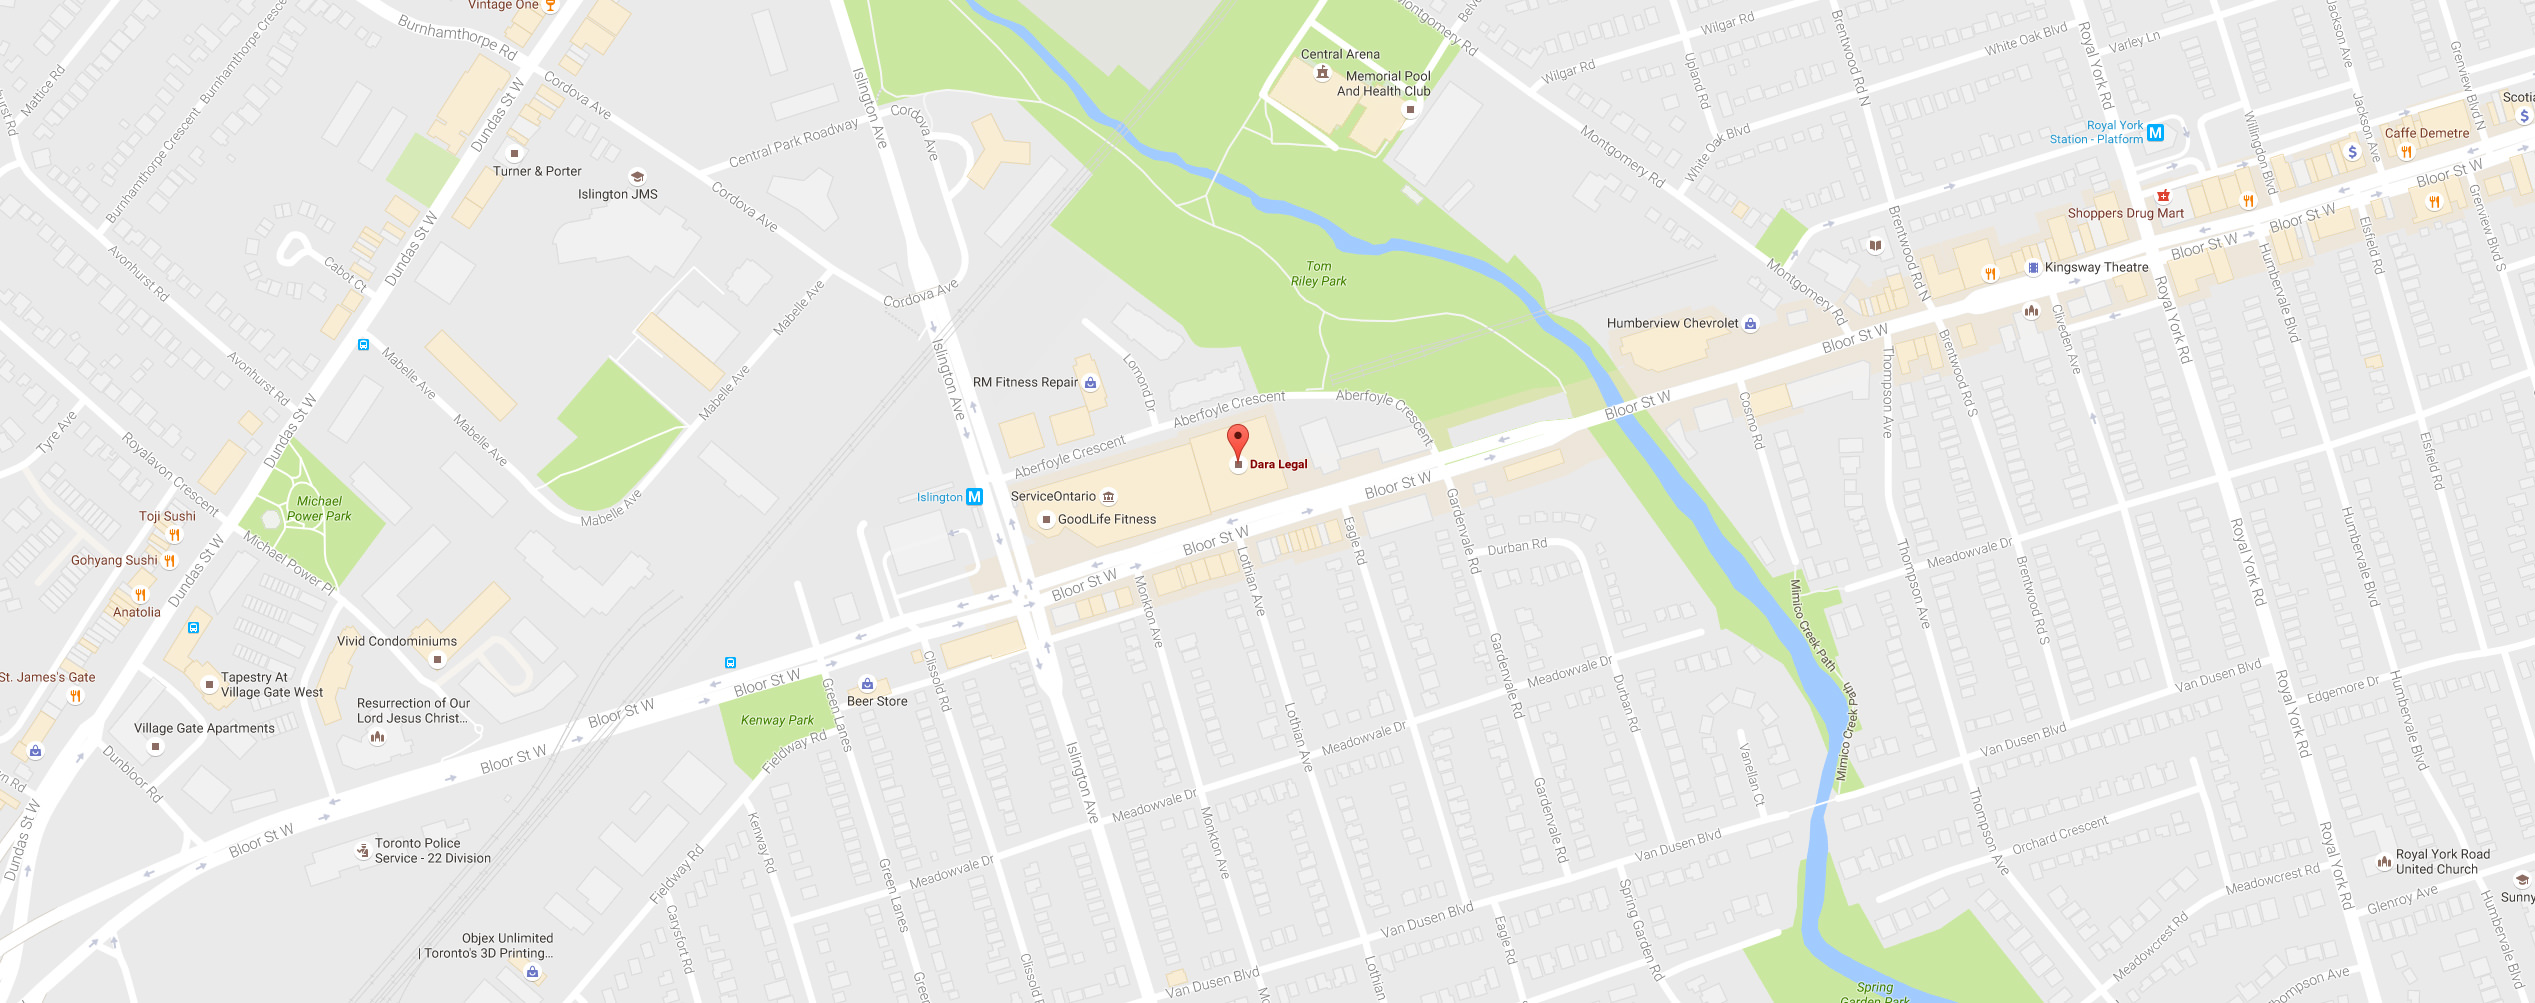
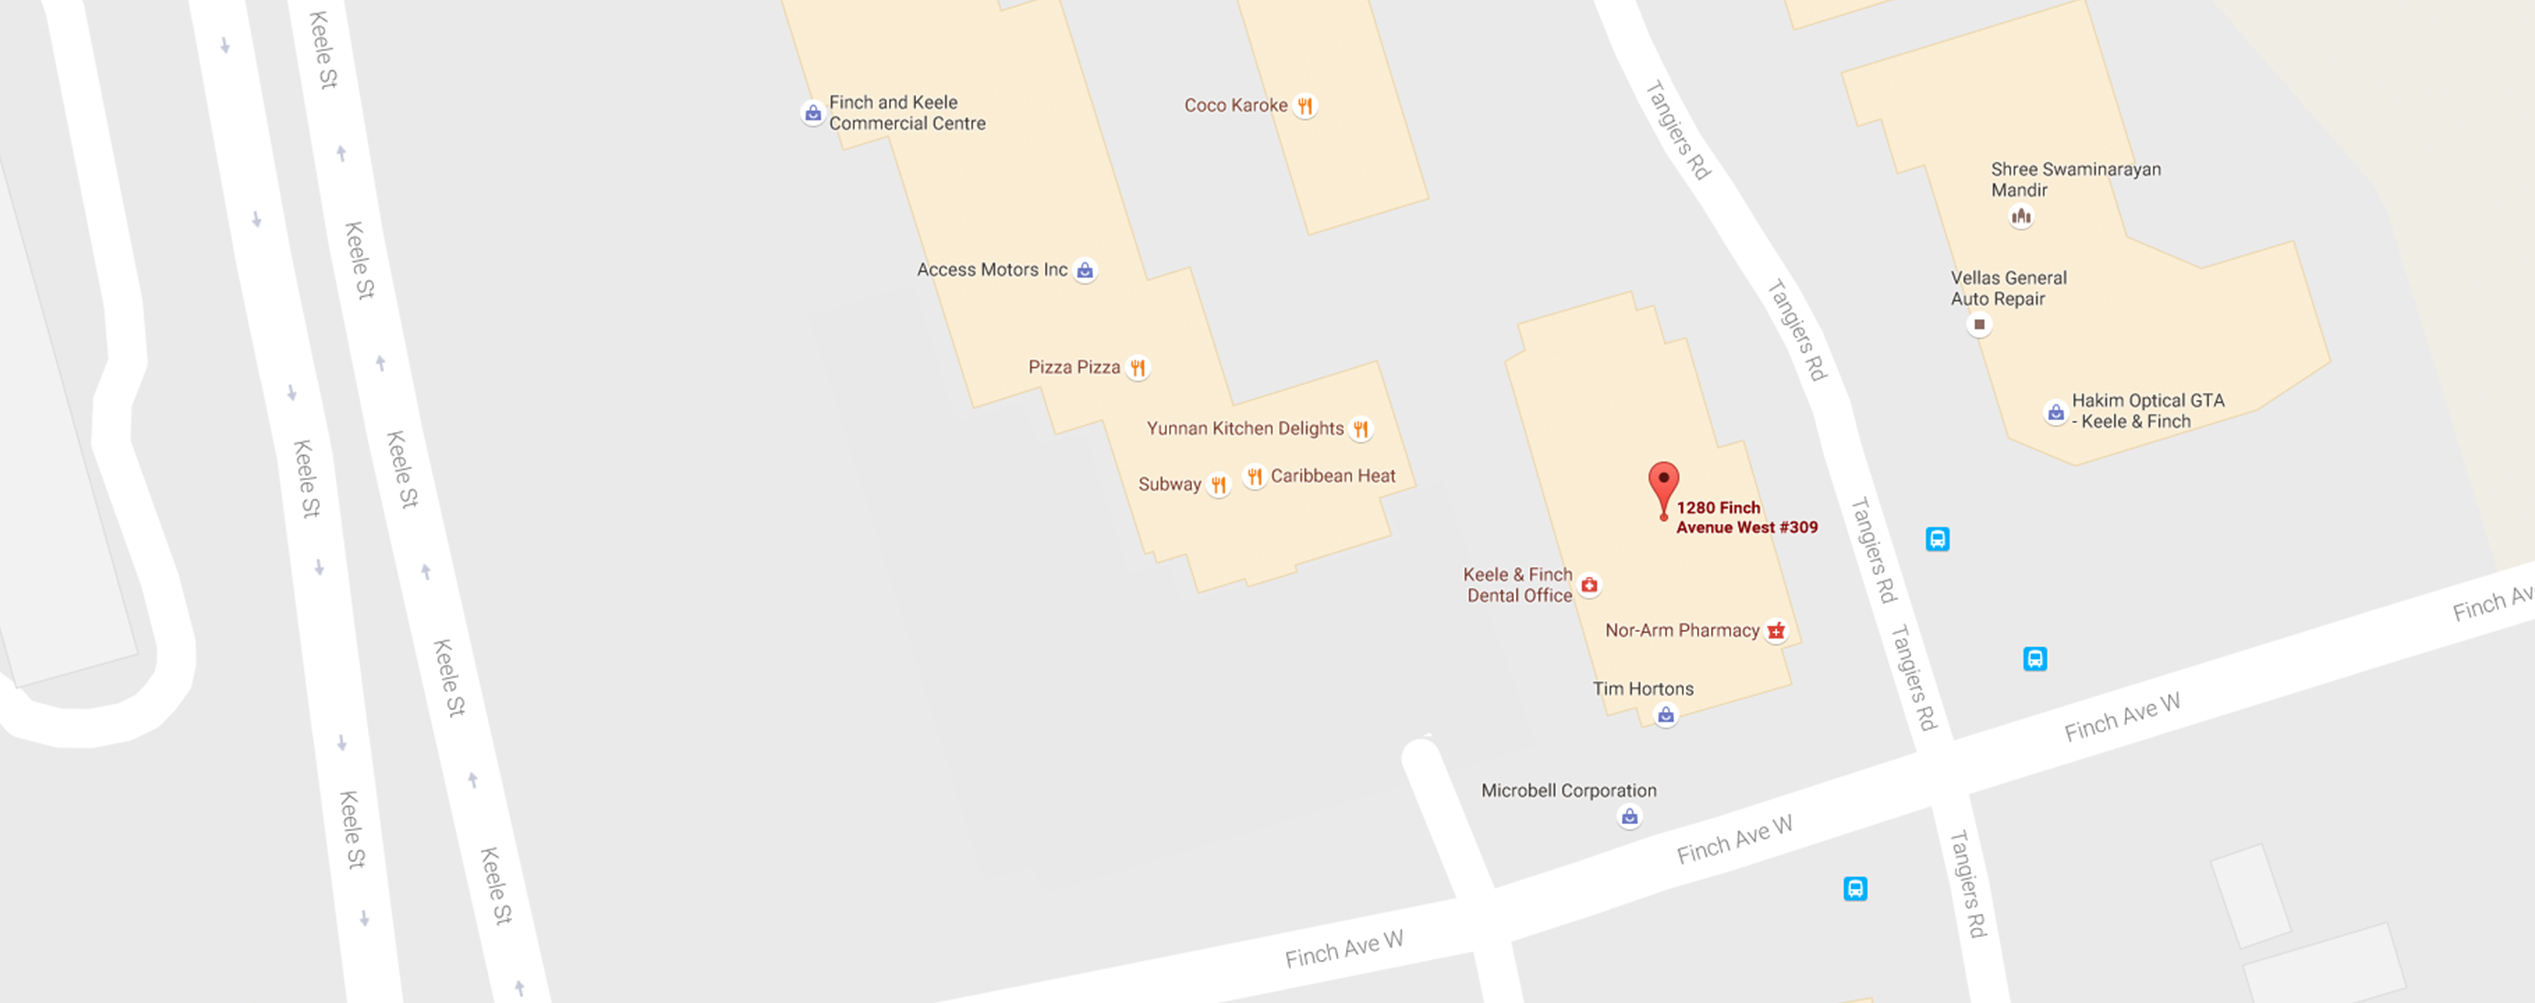
Updates

diff --git a/index.html b/index.html
@@ -51,7 +51,7 @@ layout: default
 <article>
   <section id="about">
     <div class="wrapper">
-      <h1 class="sub">Dara is a lawyer serving the Greater Toronto Area in family law and 
+      <h1 class="sub">Dara is a lawyer serving the Greater Toronto Area in family law and
         litigation.</h1>
 
       <div class="content">
@@ -71,7 +71,7 @@ layout: default
       <aside>
         <dl>
           <dt class="tel">Telephone</dt>
-          <dd><span><a href="tel:6477751623" itemprop="telephone">647-775-1623</a></span></dd>
+          <dd><span><a href="tel:6477751623" itemprop="telephone">647-428-6009 x 202</a></span></dd>
           <dt class="email">Email</dt>
           <dd><a href="mailto:info@daralegal.com" itemprop="email">info@daralegal.com</a></dd>
           <dt class="fax">Fax</dt>
@@ -81,12 +81,11 @@ layout: default
             <address itemprop="address" itemscope itemtype="http://schema.org/PostalAddress">
               <span itemprop="name">DARA LEGAL</span><br/>
               <span itemprop="streetAddress">
-                3250 Bloor Street West<br/>
-                East Tower, Suite 600
+                1280 Finch Avenue West, Suite 309
               </span><br/>
               <span itemprop="addressLocality">Toronto</span>,
               <span itemprop="addressRegion">Ontario</span><br/>
-              <span itemprop="postalCode">M8X 2X9</span>
+              <span itemprop="postalCode">M3J 3K6</span>
             </address>
           </dd>
         </dl>
@@ -147,7 +146,7 @@ layout: default
         <p>Contact DARA LEGAL about your matter to see if Dara can help you.</p>
         <dl>
           <dt class="tel">Telephone</dt>
-          <dd><span><a href="tel:6477751623" itemprop="telephone">647-775-1623</a></span></dd>
+          <dd><span><a href="tel:6477751623" itemprop="telephone">647-428-6009 x 202</a></span></dd>
           <dt class="email">Email</dt>
           <dd><a href="mailto:info@daralegal.com" itemprop="email">info@daralegal.com</a></dd>
           <dt class="fax">Fax</dt>
@@ -157,14 +156,13 @@ layout: default
             <address itemprop="address" itemscope itemtype="http://schema.org/PostalAddress">
               <span itemprop="name">DARA LEGAL</span><br/>
               <span itemprop="streetAddress">
-                3250 Bloor Street West<br/>
-                East Tower, Suite 600
+                1280 Finch Avenue West, Suite 309
               </span><br/>
               <span itemprop="addressLocality">Toronto</span>,
               <span itemprop="addressRegion">Ontario</span><br/>
-              <span itemprop="postalCode">M8X 2X9</span>
+              <span itemprop="postalCode">M3J 3K6</span>
             </address>
-            <a href="https://www.google.ca/maps/dir/''/daralegal/@43.6456766,-79.5912018,12z/data=!3m1!4b1!4m8!4m7!1m0!1m5!1m1!1s0x882b37ae819f7b7f:0x123097d8e310d917!2m2!1d-79.521162!2d43.645698"><strong>(Get Directions)</strong></a>
+            <a href="https://www.google.ca/maps/place/1280+Finch+Ave+W+%23309,+North+York,+ON+M3J+3K6/@43.7644571,-79.4909778,17z/data=!4m13!1m7!3m6!1s0x882b2e1e15c328eb:0x62fd0bf3c889a16e!2s1280+Finch+Ave+W+%23309,+North+York,+ON+M3J+3K6!3b1!8m2!3d43.7644571!4d-79.4887891!3m4!1s0x882b2e1e15c328eb:0x62fd0bf3c889a16e!8m2!3d43.7644571!4d-79.4887891"><strong>(Get Directions)</strong></a>
           </dd>
         </dl>
       </div>
@@ -173,16 +171,16 @@ layout: default
 
           <h2>Hours of Operation</h2>
           <p>Monday to Friday: 9:00 a.m. to 5:00 p.m.</p>
-          <p>Dara can also meet on evenings and weekends. <strong>All meetings are by appointment only</strong>.</p>
+          <p><strong>All meetings are by appointment only</strong>.</p>
         </div>
-        <div class="parking">
+        <!-- <div class="parking">
           <h2>Parking</h2>
           <p>There is parking along Bloor Street, as well as below the Bloor Islington Towers.</p>
           <p class="ttc"><strong>Dara's office is TTC accessible: located at Islington Subway Station.</strong></p>
-        </div>
+        </div> -->
       </div>
     </div>
-    <a href="https://www.google.ca/maps/place/Dara+Legal/@43.6451312,-79.5207221,17z/data=!4m5!3m4!1s0x882b37ae819f7b7f:0x123097d8e310d917!8m2!3d43.645698!4d-79.521162">
+    <a href="https://www.google.ca/maps/place/1280+Finch+Ave+W+%23309,+North+York,+ON+M3J+3K6/@43.7644571,-79.4909778,17z/data=!4m13!1m7!3m6!1s0x882b2e1e15c328eb:0x62fd0bf3c889a16e!2s1280+Finch+Ave+W+%23309,+North+York,+ON+M3J+3K6!3b1!8m2!3d43.7644571!4d-79.4887891!3m4!1s0x882b2e1e15c328eb:0x62fd0bf3c889a16e!8m2!3d43.7644571!4d-79.4887891">
     <div class="map-container">
     </div>
   </a>
